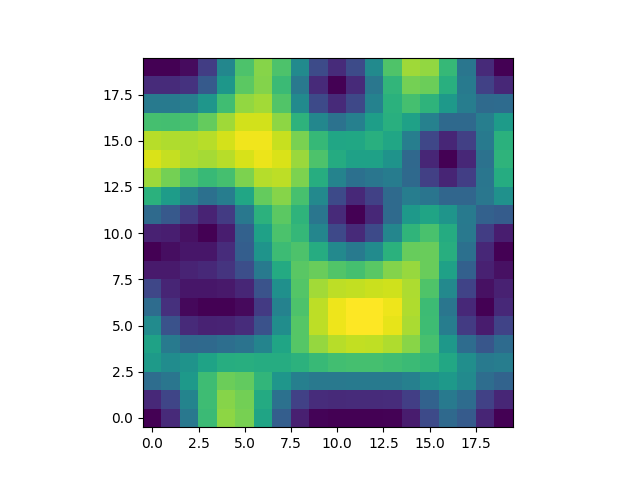
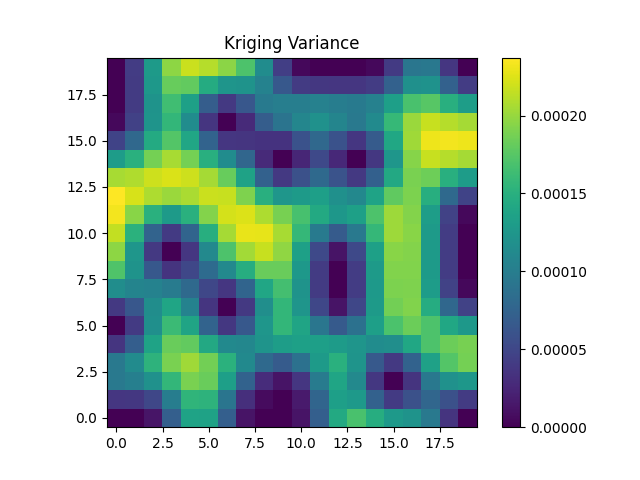
Robot trajectories plotted per robot and in combination

diff --git a/mesa_spatial_sampling_MRS/model.py b/mesa_spatial_sampling_MRS/model.py
@@ -3,6 +3,7 @@ import os
 import glob
 import random
 
+import matplotlib.colors
 import pandas as pd
 from mesa import Model, Agent
 from mesa.time import SimultaneousActivation
@@ -37,12 +38,13 @@ class Robot(Agent):
         self.distance_travelled = 0
         self.visited = np.zeros((self.model.width, self.model.height))
         self.visited[self.pos[1], self.pos[0]] += 1
+        self.trajectory = [self.pos]
 
-        # Export visited cells as image
-        plt.figure("Robot " + str(self.unique_id) + " visited cells")
-        plt.imshow(self.visited, origin="lower")
-        plt.savefig("visited_cells_vis/robot_" + str(self.unique_id) + "_visited_cells.png")
-        plt.close()
+        # # Export visited cells as image
+        # plt.figure("Robot " + str(self.unique_id) + " visited cells")
+        # plt.imshow(self.visited, origin="lower", cmap="gray")
+        # plt.savefig("visited_cells_vis/robot_" + str(self.unique_id) + "_visited_cells.png")
+        # plt.close()
 
     # Each robot will execute this method at the start of a new time step in the simulation
     def step(self):
@@ -98,6 +100,7 @@ class Robot(Agent):
                                     self.path_step = 1
                                     self.distance_travelled += 1
                                     self.visited[neighbour_cell[1], neighbour_cell[0]] += 1
+                                    self.trajectory.append(neighbour_cell)
 
                                 # If the next cell is not deadlocked, simply move the robot there
                                 else:
@@ -105,6 +108,7 @@ class Robot(Agent):
                                     self.path_step = 1
                                     self.distance_travelled += 1
                                     self.visited[self.path[self.path_step][1], self.path[self.path_step][0]] += 1
+                                    self.trajectory.append(self.path[self.path_step])
                             else:
                                 print("Cell", tuple(self.path[self.path_step]), "in robot", str(self.unique_id)+"'s", "path occupied")
                                 neighbours = []
@@ -128,6 +132,7 @@ class Robot(Agent):
                                     self.path_step = 1
                                     self.distance_travelled += 1
                                     self.visited[free_cell[1], free_cell[0]] += 1
+                                    self.trajectory.append(free_cell)
 
             # If the robot has reached the end of its path, and thus its goal, sample a value from the underlying
             # distribution
@@ -190,11 +195,15 @@ class Robot(Agent):
 
                     # Export as images
                     plt.figure('Mean')
+                    plt.title("Values Predicted by Kriging Interpolation")
                     plt.imshow(m, origin="lower")
+                    plt.colorbar()
                     plt.savefig('Mean.png')
                     plt.close()
                     plt.figure('Variance')
+                    plt.title("Kriging Variance")
                     plt.imshow(v, origin="lower")
+                    plt.colorbar()
                     plt.savefig('Variance.png')
                     plt.close()
 
@@ -300,22 +309,6 @@ class SpatialSamplingModel(Model):
     def step(self):
         self.step_num += 1
 
-        # Export visited cells as images
-
-        combined_cells_visited = np.zeros((self.width, self.height))
-        for agent in self.schedule.agents:
-            if agent.type == 0:  # True if the agent is a robot
-                plt.figure("Robot " + str(agent.unique_id) + " visited cells")
-                plt.imshow(agent.visited, origin="lower")
-                plt.savefig("visited_cells_vis/robot_" + str(agent.unique_id) + "_visited_cells.png")
-                plt.close()
-                combined_cells_visited += agent.visited
-
-        plt.figure("Combined visited cells")
-        plt.imshow(combined_cells_visited, origin="lower")
-        plt.savefig("visited_cells_vis/combined_visited_cells.png")
-        plt.close()
-
         # Create costs in the neighbourhoods of other robots in each robot's movement cost map
         for agent in self.schedule.agents:
             if agent.type == 0:  # True if the agent is a robot
@@ -397,6 +390,47 @@ class SpatialSamplingModel(Model):
 
             print(metrics)
             metrics.to_csv("metrics.csv")
+
+            # Export visited cells as images
+            combined_cells_visited = np.zeros((self.width, self.height))
+            trajectory_plot_info = {}
+            for agent in self.schedule.agents:
+                if agent.type == 0:  # True if the agent is a robot
+                    ax = plt.figure("Robot " + str(agent.unique_id) + " visited cells").gca()
+                    ax.yaxis.get_major_locator().set_params(integer=True)
+                    ax.xaxis.get_major_locator().set_params(integer=True)
+                    plt.imshow(agent.visited, origin="lower", cmap="gray")
+
+                    trajectory_plot_info[agent.unique_id] = {
+                        "x": [agent.trajectory[t][0] for t in range(len(agent.trajectory))],
+                        "y": [agent.trajectory[t][1] for t in range(len(agent.trajectory))],
+                        "c": agent.color
+                    }
+
+                    plt.plot(trajectory_plot_info[agent.unique_id]["x"],
+                             trajectory_plot_info[agent.unique_id]["y"],
+                             c=trajectory_plot_info[agent.unique_id]["c"])
+
+                    plt.colorbar()
+                    plt.title("Map of Cells Visited by Robot " + str(agent.unique_id))
+                    plt.savefig("visited_cells_vis/robot_" + str(agent.unique_id) + "_visited_cells.png")
+                    plt.close()
+                    combined_cells_visited += agent.visited
+
+            ax = plt.figure("Combined visited cells").gca()
+            ax.yaxis.get_major_locator().set_params(integer=True)
+            ax.xaxis.get_major_locator().set_params(integer=True)
+            plt.imshow(combined_cells_visited, origin="lower", cmap="gray")
+            for robot_id in trajectory_plot_info.keys():
+                plt.plot(trajectory_plot_info[robot_id]["x"],
+                         trajectory_plot_info[robot_id]["y"],
+                         c=trajectory_plot_info[robot_id]["c"])
+            plt.title("Combined Map of Visited Cells")
+            plt.legend(["Robot "+str(robot_id) for robot_id in trajectory_plot_info.keys()])
+            plt.colorbar()
+            plt.savefig("visited_cells_vis/combined_visited_cells.png")
+            plt.close()
+
             self.running = False
 
         # Run one step of the model
